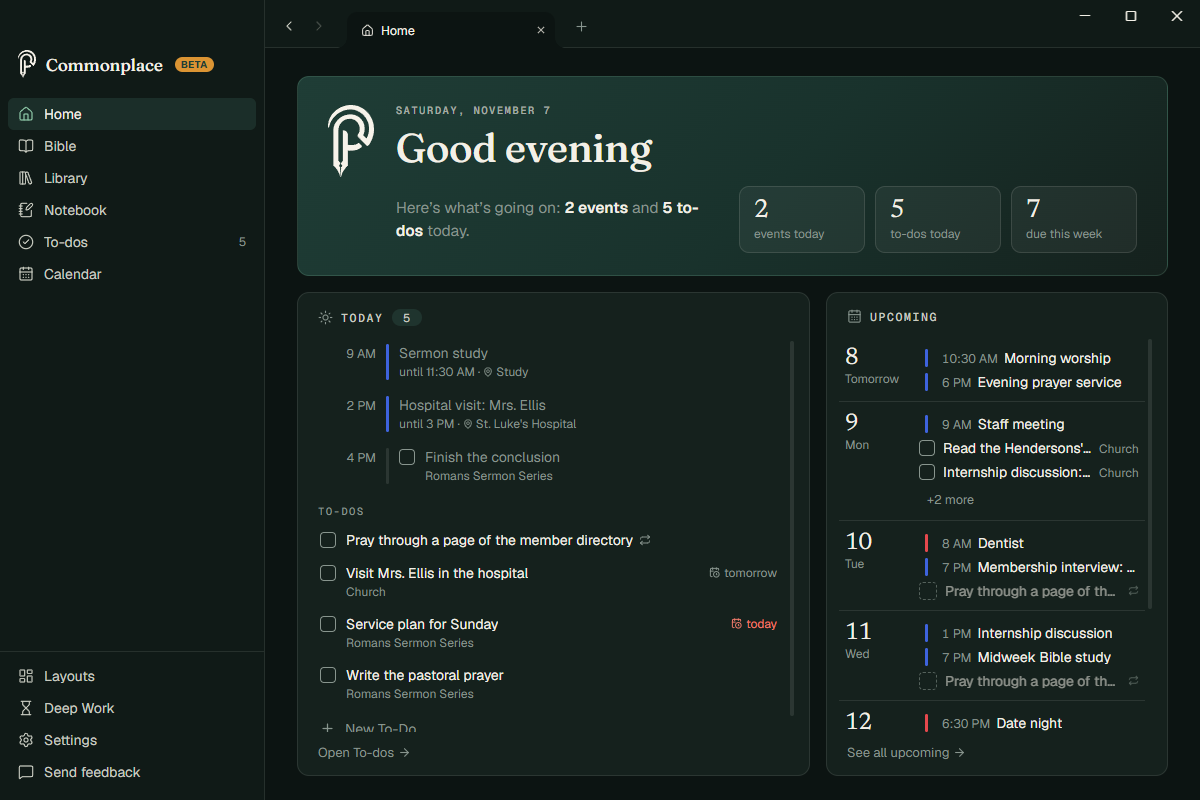
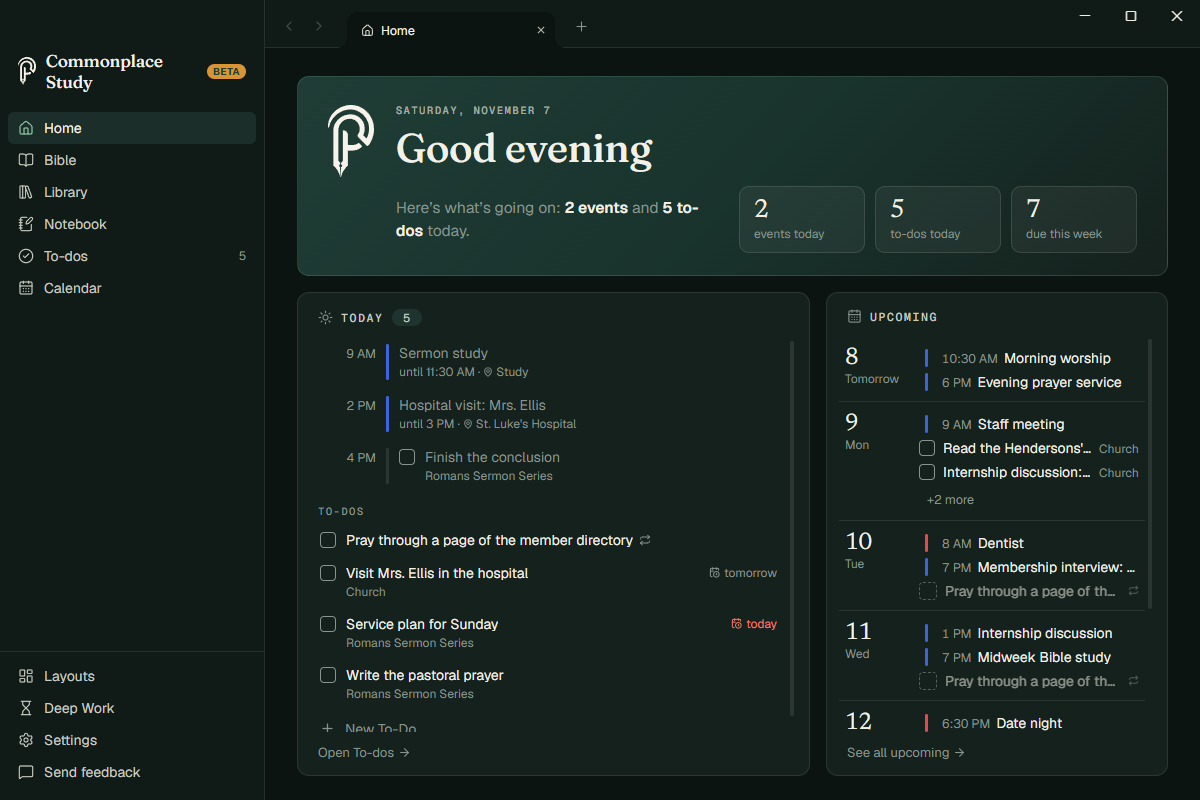
The website

Changed region(s): [[0.0, 0.0625, 0.2158, 0.375]]

diff --git a/privacy.html b/privacy.html
@@ -3,8 +3,8 @@
 <head>
   <meta charset="utf-8">
   <meta name="viewport" content="width=device-width, initial-scale=1">
-  <title>Privacy policy: Commonplace</title>
-  <meta name="description" content="Commonplace keeps your notes on your computer. What it connects to, and only when you ask.">
+  <title>Privacy policy: Commonplace Study</title>
+  <meta name="description" content="Commonplace Study keeps your notes on your computer. What it connects to, and only when you ask.">
   <link rel="icon" href="img/icon-128.png">
   <link rel="stylesheet" href="style.css">
   <script type="module" src="site.js"></script>
@@ -12,7 +12,7 @@
 <body>
   <header class="site-head">
     <div class="wrap">
-      <a class="brand" href="./"><img class="light" src="img/symbol-green.svg" alt=""><img class="dark" src="img/symbol-ivory.svg" alt="">Commonplace</a>
+      <a class="brand" href="./"><img class="light" src="img/symbol-green.svg" alt=""><img class="dark" src="img/symbol-ivory.svg" alt="">Commonplace Study</a>
       <nav class="site-nav" aria-label="Site">
         <a href="download.html">Download</a>
       </nav>
@@ -28,76 +28,76 @@
       <ul>
         <li>Your notes, books, highlights and to-dos stay on your computer, in a folder you choose. They are never sent to us.</li>
         <li>There's no account, no advertising, no analytics and no tracking, in the app or on this website.</li>
-        <li>Commonplace only goes online for things you turn on or ask for: your calendar, updates, an optional voice, saving a web page, and Claude.</li>
+        <li>Commonplace Study only goes online for things you turn on or ask for: your calendar, updates, an optional voice, saving a web page, and Claude.</li>
       </ul>
     </div>
 
     <h2>Who we are</h2>
-    <p>Commonplace is a desktop app for Mac and Windows made by Noah Cunningham ("we", "us"). We don't run any server that receives your notes or your information. Questions about this policy: <a data-email="Commonplace privacy" href="#"></a>.</p>
+    <p>Commonplace Study is a desktop app for Mac and Windows made by Noah Cunningham ("we", "us"). We don't run any server that receives your notes or your information. Questions about this policy: <a data-email="Commonplace Study privacy" href="#"></a>.</p>
 
     <h2>Your notes and books</h2>
-    <p>Everything you write in Commonplace is saved as ordinary files in the notes folder you choose, on your own computer (or in a cloud folder such as iCloud Drive, OneDrive or Dropbox if you choose one; that service's own terms then apply). Books you add are kept there too. Commonplace keeps a few settings of its own on your computer and in your notes folder. None of this is sent to us or to anyone else.</p>
+    <p>Everything you write in Commonplace Study is saved as ordinary files in the notes folder you choose, on your own computer (or in a cloud folder such as iCloud Drive, OneDrive or Dropbox if you choose one; that service's own terms then apply). Books you add are kept there too. Commonplace Study keeps a few settings of its own on your computer and in your notes folder. None of this is sent to us or to anyone else.</p>
 
-    <h2>When Commonplace goes online</h2>
+    <h2>When Commonplace Study goes online</h2>
     <p>Only in these cases, and each one is something you add or ask for:</p>
 
     <h3>Your calendar (Google, Microsoft, Apple iCloud)</h3>
-    <p>If you add a calendar account in Settings › Calendar, Commonplace connects directly from your computer to that provider, after you sign in on the provider's own page (or, for iCloud, with an app-specific password you create at Apple).</p>
+    <p>If you add a calendar account in Settings › Calendar, Commonplace Study connects directly from your computer to that provider, after you sign in on the provider's own page (or, for iCloud, with an app-specific password you create at Apple).</p>
     <ul>
-      <li><b>What it accesses:</b> your calendars and their events, to show them in Commonplace and to add or change events when you ask it to (for example, a to-do with a date). It also reads your account's email address, only to label the account in Settings.</li>
+      <li><b>What it accesses:</b> your calendars and their events, to show them in Commonplace Study and to add or change events when you ask it to (for example, a to-do with a date). It also reads your account's email address, only to label the account in Settings.</li>
       <li><b>Where it's kept:</b> the sign-in is kept in your computer's own password store (Keychain on a Mac, Credential Manager on Windows). Events are shown in the app on your computer.</li>
       <li><b>Who receives it:</b> nobody else. Your calendar data goes only between your computer and your calendar provider; it never passes through us.</li>
       <li><b>Removing it:</b> remove the account in Settings › Calendar, which deletes the stored sign-in from your computer and tells Google or Microsoft to cancel it. You can also withdraw access at any time from your Google or Microsoft account's security settings, or by deleting the app-specific password at Apple.</li>
     </ul>
-    <p>On a Mac, Commonplace can instead show the calendars already in the Mac's Calendar app, with your permission. That stays on your Mac.</p>
+    <p>On a Mac, Commonplace Study can instead show the calendars already in the Mac's Calendar app, with your permission. That stays on your Mac.</p>
 
     <h3>Google user data</h3>
-    <p>Commonplace's use and transfer of information received from Google APIs adheres to the <a href="https://developers.google.com/terms/api-services-user-data-policy">Google API Services User Data Policy</a>, including the Limited Use requirements. In particular, Google calendar data and your Google email address:</p>
+    <p>Commonplace Study's use and transfer of information received from Google APIs adheres to the <a href="https://developers.google.com/terms/api-services-user-data-policy">Google API Services User Data Policy</a>, including the Limited Use requirements. In particular, Google calendar data and your Google email address:</p>
     <ul>
-      <li>are used only to show and change your calendar in Commonplace on your computer, as described above;</li>
+      <li>are used only to show and change your calendar in Commonplace Study on your computer, as described above;</li>
       <li>are not sent to us, sold, used for advertising, or transferred to anyone;</li>
       <li>are not used to train AI or machine-learning models;</li>
       <li>are never read by a person, since they never leave your computer except to go back to Google.</li>
     </ul>
 
     <h3>Updates</h3>
-    <p>Commonplace checks every few hours whether a newer version exists, by downloading a small file from GitHub, where its releases are published; when you choose to update, it downloads the new version from there too. Like any download, GitHub sees your computer's internet address. Nothing about you or your notes is sent. See <a href="https://docs.github.com/site-policy/privacy-policies/github-general-privacy-statement">GitHub's privacy statement</a>.</p>
+    <p>Commonplace Study checks every few hours whether a newer version exists, by downloading a small file from GitHub, where its releases are published; when you choose to update, it downloads the new version from there too. Like any download, GitHub sees your computer's internet address. Nothing about you or your notes is sent. See <a href="https://docs.github.com/site-policy/privacy-policies/github-general-privacy-statement">GitHub's privacy statement</a>.</p>
 
     <h3>The natural reading voice (optional)</h3>
-    <p>If you choose to download the natural voice for Listen (reading aloud), Commonplace downloads it once from Hugging Face, which sees your internet address as with any download. Reading aloud then happens entirely on your computer.</p>
+    <p>If you choose to download the natural voice for Listen (reading aloud), Commonplace Study downloads it once from Hugging Face, which sees your internet address as with any download. Reading aloud then happens entirely on your computer.</p>
 
     <h3>Saving a web page</h3>
-    <p>If you ask Commonplace to save an article from the web, it fetches that page from its website, as your browser would, and saves it as a note.</p>
+    <p>If you ask Commonplace Study to save an article from the web, it fetches that page from its website, as your browser would, and saves it as a note.</p>
 
     <h3>Claude (optional)</h3>
-    <p>If you connect Commonplace to the Claude app, Claude can read and write in your notes folder when you ask it to, using a connector that runs on your computer. What Claude reads is handled by Anthropic, under <a href="https://www.anthropic.com/legal/privacy">Anthropic's privacy policy</a> and your Claude account's settings. Commonplace itself sends nothing to Anthropic, and you can disconnect in Settings › AI at any time.</p>
+    <p>If you connect Commonplace Study to the Claude app, Claude can read and write in your notes folder when you ask it to, using a connector that runs on your computer. What Claude reads is handled by Anthropic, under <a href="https://www.anthropic.com/legal/privacy">Anthropic's privacy policy</a> and your Claude account's settings. Commonplace Study itself sends nothing to Anthropic, and you can disconnect in Settings › AI at any time.</p>
 
     <h3>Links and files you open</h3>
     <p>Links you click open in your web browser, and files you open (a PDF page, for example) open in their own app.</p>
 
     <h2>Send feedback</h2>
-    <p>Send feedback starts an email in your own mail app. It includes the version of Commonplace, your computer's operating system and how many notes and books are in your folder, never their names or contents. You see the whole email before you send it, and nothing is sent unless you send it. We use what you send only to answer you and improve Commonplace.</p>
+    <p>Send feedback starts an email in your own mail app. It includes the version of Commonplace Study, your computer's operating system and how many notes and books are in your folder, never their names or contents. You see the whole email before you send it, and nothing is sent unless you send it. We use what you send only to answer you and improve Commonplace Study.</p>
 
     <h2>This website</h2>
     <p>This website has no cookies, no analytics and no tracking, and its fonts are served from the site itself. The company hosting it keeps the usual technical logs (such as internet addresses) to run and protect the site.</p>
 
     <h2>Children</h2>
-    <p>Commonplace is made for adults, especially pastors, and isn't directed at children under 13.</p>
+    <p>Commonplace Study is made for adults, especially pastors, and isn't directed at children under 13.</p>
 
     <h2>Changes</h2>
-    <p>If this policy changes, the new version will be posted here with a new date. If a change affects what Commonplace does with your information, the app will tell you before it takes effect.</p>
+    <p>If this policy changes, the new version will be posted here with a new date. If a change affects what Commonplace Study does with your information, the app will tell you before it takes effect.</p>
 
     <h2>Contact</h2>
-    <p>Noah Cunningham, <a data-email="Commonplace privacy" href="#"></a>.</p>
+    <p>Noah Cunningham, <a data-email="Commonplace Study privacy" href="#"></a>.</p>
   </main>
 
   <footer class="site-foot">
     <div class="wrap">
-      <span>Commonplace, made by Noah Cunningham.</span>
+      <span>Commonplace Study, made by Noah Cunningham.</span>
       <nav aria-label="More">
         <a href="./">Home</a>
         <a href="download.html">Download</a>
-        <a data-email="Commonplace" href="#">Contact</a>
+        <a data-email="Commonplace Study" href="#">Contact</a>
       </nav>
     </div>
   </footer>

diff --git a/download.html b/download.html
@@ -3,8 +3,8 @@
 <head>
   <meta charset="utf-8">
   <meta name="viewport" content="width=device-width, initial-scale=1">
-  <title>Download Commonplace for Mac or Windows</title>
-  <meta name="description" content="Download Commonplace for Mac or Windows.">
+  <title>Download Commonplace Study for Mac or Windows</title>
+  <meta name="description" content="Download Commonplace Study for Mac or Windows.">
   <link rel="icon" href="img/icon-128.png">
   <link rel="stylesheet" href="style.css">
   <script type="module" src="site.js"></script>
@@ -12,7 +12,7 @@
 <body>
   <header class="site-head">
     <div class="wrap">
-      <a class="brand" href="./"><img class="light" src="img/symbol-green.svg" alt=""><img class="dark" src="img/symbol-ivory.svg" alt="">Commonplace</a>
+      <a class="brand" href="./"><img class="light" src="img/symbol-green.svg" alt=""><img class="dark" src="img/symbol-ivory.svg" alt="">Commonplace Study</a>
       <nav class="site-nav" aria-label="Site">
         <a href="download.html" aria-current="page">Download</a>
       </nav>
@@ -20,11 +20,11 @@
   </header>
 
   <main class="narrow page">
-    <h1>Download Commonplace</h1>
+    <h1>Download Commonplace Study</h1>
     <p class="lead">Free while it's in testing. Your computer is picked for you below; the other is there too.</p>
 
-    <p class="notice when-soon">Downloads open soon. To try Commonplace now, <a data-email="I'd like to try Commonplace" href="#">write to Noah</a> and he'll send it to you.</p>
-    <p class="notice when-phone">Commonplace is for Mac and Windows computers. Open this page on your computer to download it, or <a data-email="Commonplace download link" href="#">email yourself the link</a>.</p>
+    <p class="notice when-soon">Downloads open soon. To try Commonplace Study now, <a data-email="I'd like to try Commonplace Study" href="#">write to Noah</a> and he'll send it to you.</p>
+    <p class="notice when-phone">Commonplace Study is for Mac and Windows computers. Open this page on your computer to download it, or <a data-email="Commonplace Study download link" href="#">email yourself the link</a>.</p>
 
     <div class="choices">
       <div class="choice">
@@ -32,7 +32,7 @@
         <h2>Mac</h2>
         <p>Any Mac, with an Apple chip or Intel.</p>
         <div class="buttons"><a class="button" data-download="mac">Download for Mac</a></div>
-        <p class="small muted" style="margin-top: 14px">Open the downloaded file and drag Commonplace into Applications.</p>
+        <p class="small muted" style="margin-top: 14px">Open the downloaded file and drag Commonplace Study into Applications.</p>
       </div>
       <div class="choice">
         <span class="this">This computer</span>
@@ -44,10 +44,10 @@
     </div>
 
     <h2>Opening it the first time</h2>
-    <p>While Commonplace is in testing, your computer may not recognise it yet and ask whether to trust it. This happens once:</p>
+    <p>While Commonplace Study is in testing, your computer may not recognise it yet and ask whether to trust it. This happens once:</p>
     <ul>
       <li><b>Windows:</b> if a blue box says "Windows protected your PC", click <span class="ui">More info</span>, then <span class="ui">Run anyway</span>.</li>
-      <li><b>Mac:</b> if it says Commonplace "can't be opened", right-click (or Control-click) Commonplace in Applications, choose <span class="ui">Open</span>, then <span class="ui">Open</span> again.</li>
+      <li><b>Mac:</b> if it says Commonplace Study "can't be opened", right-click (or Control-click) Commonplace Study in Applications, choose <span class="ui">Open</span>, then <span class="ui">Open</span> again.</li>
     </ul>
     <p>After that it opens like any other app, and keeps itself up to date.</p>
 
@@ -55,17 +55,17 @@
     <ul>
       <li>A Mac, or a PC with Windows 10 or 11 (64-bit).</li>
       <li>No account and no internet, except for your calendar, updates and Claude.</li>
-      <li>A folder for your notes: Commonplace suggests Documents › Commonplace, and you can choose any other.</li>
+      <li>A folder for your notes: Commonplace Study suggests Documents › Commonplace Study, and you can choose any other.</li>
     </ul>
   </main>
 
   <footer class="site-foot">
     <div class="wrap">
-      <span>Commonplace, made by Noah Cunningham.</span>
+      <span>Commonplace Study, made by Noah Cunningham.</span>
       <nav aria-label="More">
         <a href="./">Home</a>
         <a href="privacy.html">Privacy</a>
-        <a data-email="Commonplace" href="#">Contact</a>
+        <a data-email="Commonplace Study" href="#">Contact</a>
       </nav>
     </div>
   </footer>

diff --git a/index.html b/index.html
@@ -3,7 +3,7 @@
 <head>
   <meta charset="utf-8">
   <meta name="viewport" content="width=device-width, initial-scale=1">
-  <title>Commonplace: the note-taking and productivity app for pastors</title>
+  <title>Commonplace Study: the note-taking and productivity app for pastors</title>
   <meta name="description" content="The note-taking and productivity app for pastors: your notes, books, to-dos and calendar in one place, connected by Scripture. For Mac and Windows.">
   <link rel="icon" href="img/icon-128.png">
   <link rel="stylesheet" href="style.css">
@@ -12,7 +12,7 @@
 <body>
   <header class="site-head">
     <div class="wrap">
-      <a class="brand" href="./"><img class="light" src="img/symbol-green.svg" alt=""><img class="dark" src="img/symbol-ivory.svg" alt="">Commonplace</a>
+      <a class="brand" href="./"><img class="light" src="img/symbol-green.svg" alt=""><img class="dark" src="img/symbol-ivory.svg" alt="">Commonplace Study</a>
       <nav class="site-nav" aria-label="Site">
         <a href="download.html">Download</a>
       </nav>
@@ -23,7 +23,7 @@
     <section class="hero">
       <div class="wrap">
         <img class="mark" src="img/symbol-ivory.svg" alt="">
-        <h1>Commonplace</h1>
+        <h1>Commonplace Study</h1>
         <p class="kind">The note-taking and productivity app for pastors</p>
         <p class="tagline">Every note, every task, every text — all connected.</p>
         <p class="secondary">Search a passage. See everything you've ever read, written, or preached on it.</p>
@@ -31,7 +31,7 @@
           <a class="button" data-main-download href="download.html">Download</a>
           <a class="link" data-other-download href="download.html"></a>
         </div>
-        <img class="shot" src="img/app-home.png" width="1200" height="800" alt="Commonplace's Home: today's services, visits and to-dos, and the week ahead.">
+        <img class="shot" src="img/app-home.png" width="1200" height="800" alt="Commonplace Study's Home: today's services, visits and to-dos, and the week ahead.">
       </div>
     </section>
 
@@ -39,7 +39,7 @@
       <div class="wrap">
         <div class="point-text">
           <h2>Scripture connects everything</h2>
-          <p>Write "Rom 8:28" anywhere and Commonplace finds it, links it, and gathers every note, sermon and book that cites it.</p>
+          <p>Write "Rom 8:28" anywhere and Commonplace Study finds it, links it, and gathers every note, sermon and book that cites it.</p>
         </div>
         <img class="point-shot" src="img/app-note.png" width="1200" height="800" loading="lazy" alt="A sermon note with its Bible references highlighted and linked.">
       </div>
@@ -77,7 +77,7 @@
           </ul>
         </div>
         <div class="files" aria-label="Your notes folder: plain Markdown files">
-          <div class="files-bar"><span></span><span></span><span></span><b>Commonplace</b></div>
+          <div class="files-bar"><span></span><span></span><span></span><b>Commonplace Study</b></div>
           <div class="files-body">
             <ul class="files-list">
               <li class="folder">Notebook</li>
@@ -102,7 +102,7 @@ status: draft
 
     <section class="cta">
       <div class="wrap">
-        <h2>Try Commonplace</h2>
+        <h2>Try Commonplace Study</h2>
         <p class="muted">For Mac and Windows. Free while it's in testing.</p>
         <div class="buttons">
           <a class="button" data-main-download href="download.html">Download</a>
@@ -113,11 +113,11 @@ status: draft
 
   <footer class="site-foot">
     <div class="wrap">
-      <span>Commonplace, made by Noah Cunningham.</span>
+      <span>Commonplace Study, made by Noah Cunningham.</span>
       <nav aria-label="More">
         <a href="download.html">Download</a>
         <a href="privacy.html">Privacy</a>
-        <a data-email="Commonplace" href="#">Contact</a>
+        <a data-email="Commonplace Study" href="#">Contact</a>
       </nav>
     </div>
   </footer>

diff --git a/site.js b/site.js
@@ -23,7 +23,7 @@ export function platformOf(ua = "", touchPoints = 0) {
 export function downloadLinks(repo) {
   if (!repo) return null;
   const base = `https://github.com/${repo}/releases/latest/download`;
-  return { mac: `${base}/Commonplace-Mac.dmg`, windows: `${base}/Commonplace-Windows-Setup.exe` };
+  return { mac: `${base}/Commonplace-Study-Mac.dmg`, windows: `${base}/Commonplace-Study-Windows-Setup.exe` };
 }
 
 export const NAMES = { mac: "Mac", windows: "Windows" };

diff --git a/README.md b/README.md
@@ -1,4 +1,4 @@
-# Commonplace
+# Commonplace Study
 
-The note-taking and productivity app for pastors. This repo holds Commonplace's website
+The note-taking and productivity app for pastors. This repo holds Commonplace Study's website
 and, under Releases, the Mac and Windows downloads. Questions: nohacunningham@gmail.com.
